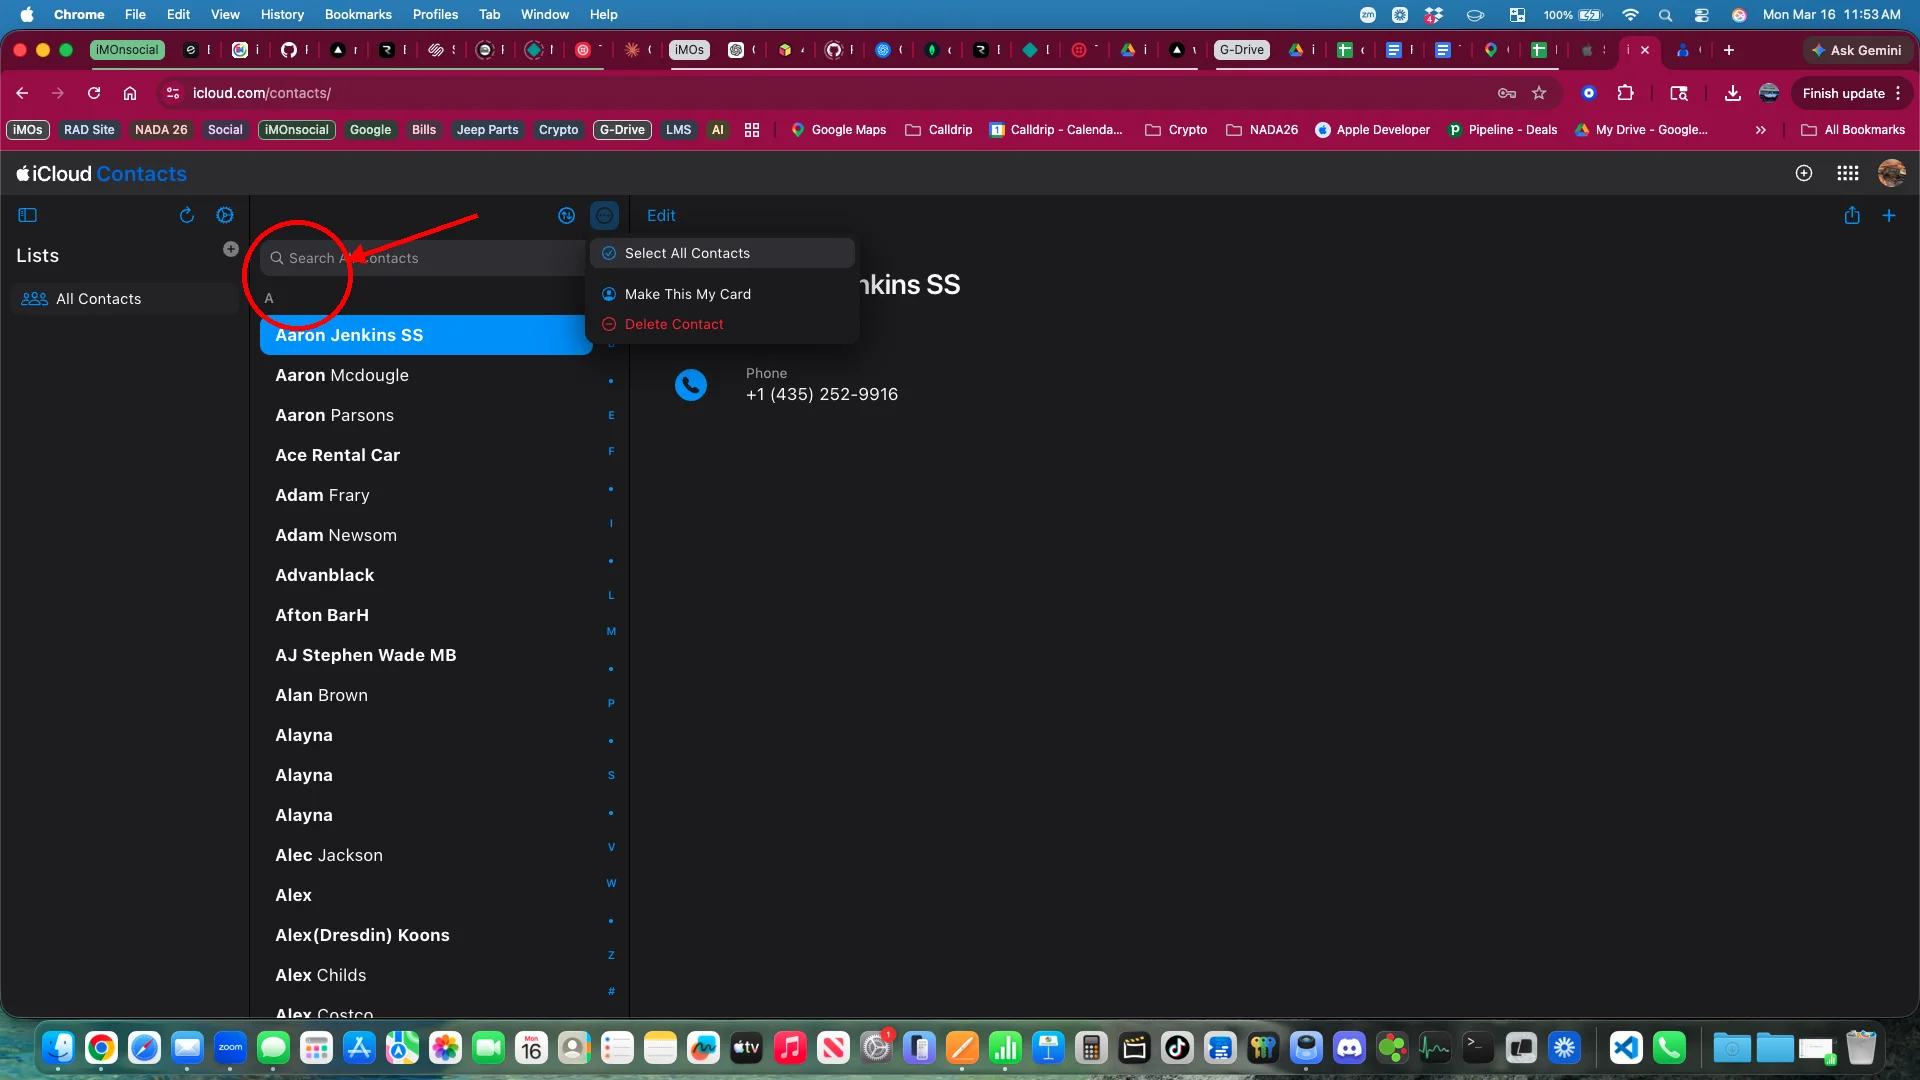
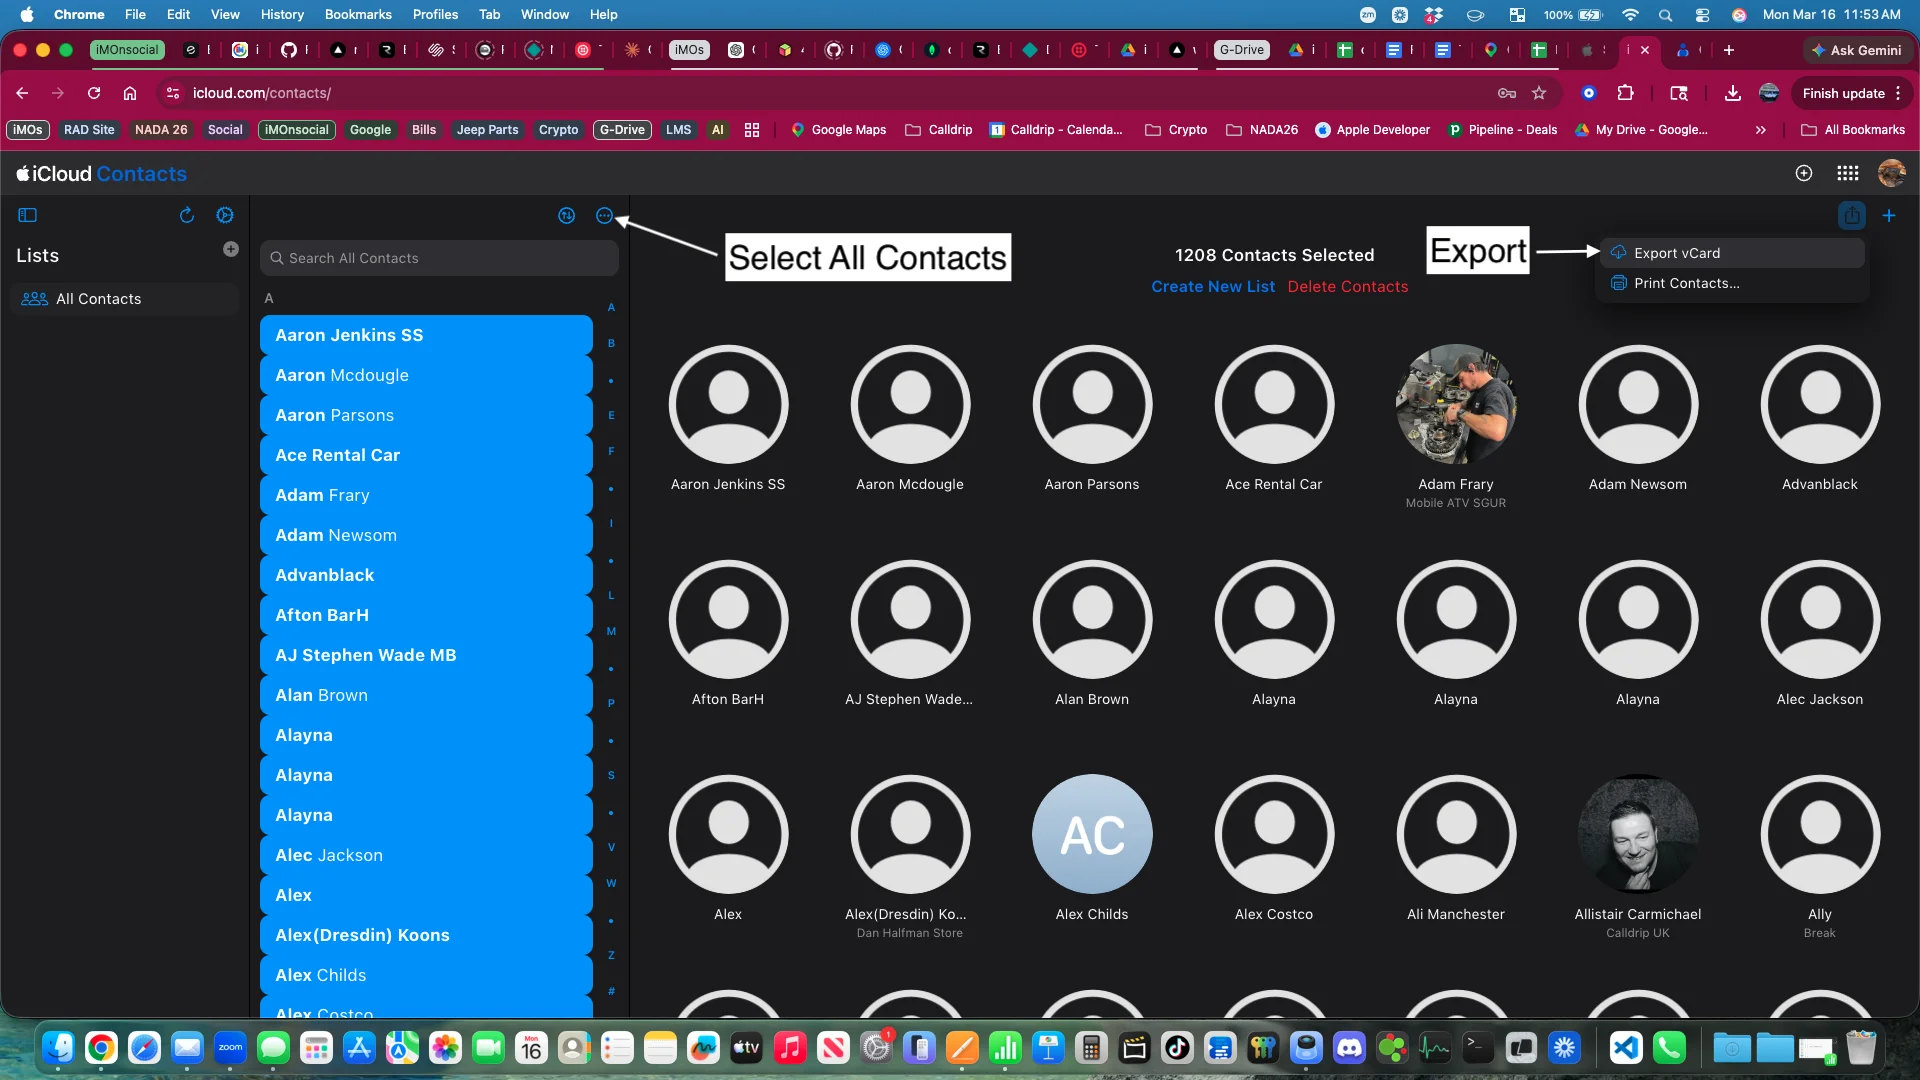
auto-commit for d0dfc830-518d-4a44-9e48-ac2ecade31aa

diff --git a/frontend/public/import-guide/index.html b/frontend/public/import-guide/index.html
@@ -23,7 +23,8 @@
   .step-number.google { background: #4285f4; }
   .step-title { font-size: 17px; font-weight: 600; }
   .step-desc { color: #aaa; font-size: 14px; margin-bottom: 12px; padding-left: 44px; }
-  .step-img { width: 100%; border-radius: 10px; border: 1px solid #222; margin-top: 8px; }
+  .step-img { width: 100%; max-width: 700px; border-radius: 10px; border: 1px solid #222; margin-top: 8px; }
+  .step-img.compact { width: auto; max-width: 360px; display: block; margin-left: 44px; }
   .callout { background: #1a2a1a; border: 1px solid #2a4a2a; border-radius: 10px; padding: 14px 16px; margin: 24px 0; font-size: 14px; color: #8fbc8f; }
   .callout b { color: #a5d6a5; }
   .callout.warn { background: #2a2a1a; border-color: #4a4a2a; color: #bcbc8f; }
@@ -77,24 +78,15 @@
     <div class="step">
       <div class="step-header">
         <div class="step-number apple">2</div>
-        <div class="step-title">Select All Contacts</div>
+        <div class="step-title">Select All, then Export</div>
       </div>
-      <div class="step-desc">Once you're in iCloud Contacts, click the <b>settings icon</b> (gear) in the top area, then click <b>"Select All Contacts"</b> from the dropdown menu.</div>
-      <img src="icloud_step1.webp" alt="iCloud - Select All Contacts" class="step-img" loading="lazy">
+      <div class="step-desc">Once you're in iCloud Contacts, click the <b>settings icon</b> (gear) at the top left, then click <b>"Select All Contacts"</b>. Once all contacts are highlighted, click the <b>share icon</b> (box with arrow) at the top right and choose <b>"Export vCard"</b>. A <b>.vcf</b> file will download to your computer.</div>
+      <img src="icloud_step1.webp" alt="iCloud - Select All Contacts and Export vCard" class="step-img" loading="lazy">
     </div>
 
     <div class="step">
       <div class="step-header">
         <div class="step-number apple">3</div>
-        <div class="step-title">Export as vCard</div>
-      </div>
-      <div class="step-desc">With all contacts selected, click the <b>share icon</b> (box with an upward arrow) in the top-right area, then click <b>"Export vCard"</b> from the dropdown. A <b>.vcf</b> file will download to your computer.</div>
-      <img src="icloud_step2.webp" alt="iCloud - Export vCard" class="step-img" loading="lazy">
-    </div>
-
-    <div class="step">
-      <div class="step-header">
-        <div class="step-number apple">4</div>
         <div class="step-title">Upload to i'M On Social</div>
       </div>
       <div class="step-desc">Go back to the Import Contacts screen in i'M On Social, tap <b>"From File (CSV or VCF)"</b>, and select the .vcf file you just downloaded. You'll see a preview of all your contacts before importing.</div>
@@ -136,7 +128,7 @@
         <br><br>
         Either format works. Click <b>"Export"</b> and the file will download.
       </div>
-      <img src="google_step2.webp" alt="Google Contacts - Export dialog" class="step-img" loading="lazy">
+      <img src="google_step2.webp" alt="Google Contacts - Export dialog" class="step-img compact" loading="lazy">
     </div>
 
     <div class="step">
